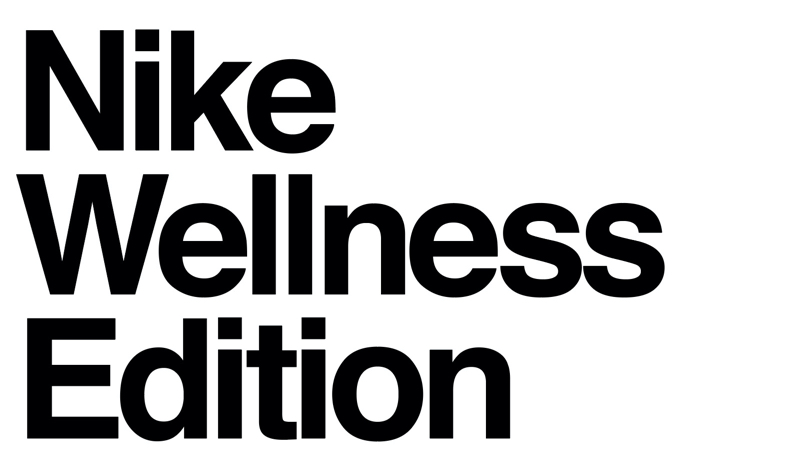
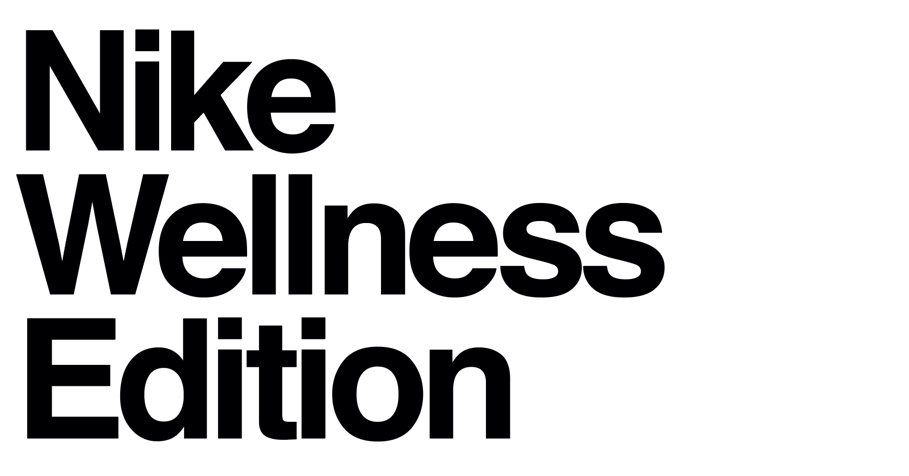
change aspect ratio of meta images

Changed region(s): [[0.0, 0.3529, 0.8517, 0.9412], [0.0304, 0.0588, 0.4259, 0.3235], [0.0304, 0.6765, 0.0913, 0.9118]]

diff --git a/index.html b/index.html
@@ -22,7 +22,7 @@
     <meta name="twitter:url" value="nwe.studio">
     <meta name="twitter:title" value="Nike Wellness Edition">
     <meta name="twitter:description" value="Resources to help you stay well while staying inside.">
-    <meta name="twitter:image" content="http://nwe.studio/media/title-image.jpg">
+    <meta name="twitter:image" content="http://nwe.studio/media/title-image_2-1.jpg">
     
     <!-- import the webpage's stylesheet -->
     <link rel="stylesheet" href="style.css">
